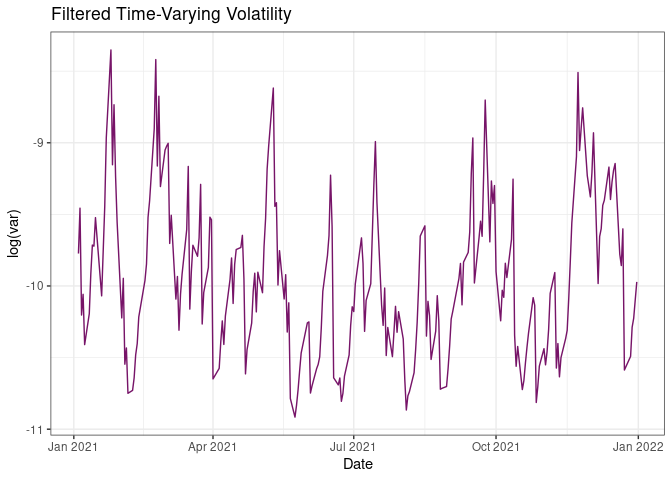
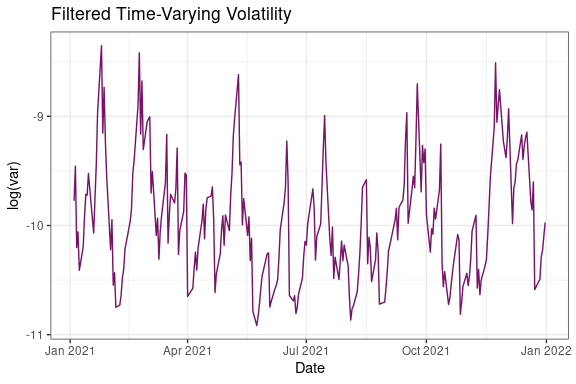
Updating documentation

Changed region(s): [[0.0312, 0.0, 1.0, 1.0], [0.0, 0.4062, 0.0312, 0.5625]]

diff --git a/README.md b/README.md
@@ -107,7 +107,7 @@ ggplot(mapping = aes(x = data$date, y = model_gas$fit$par_tv[, 2])) +
   theme_bw()
 ```
 
-<img src="man/figures/README-example-1.png" width="66%" style="display: block; margin: auto;" />
+<img src="man/figures/README-example-1.png" width="75%" style="display: block; margin: auto;" />
 
 ## Case Studies
 
